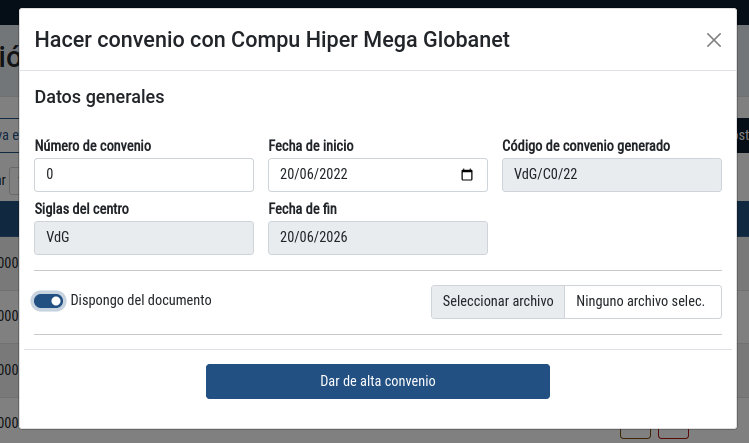
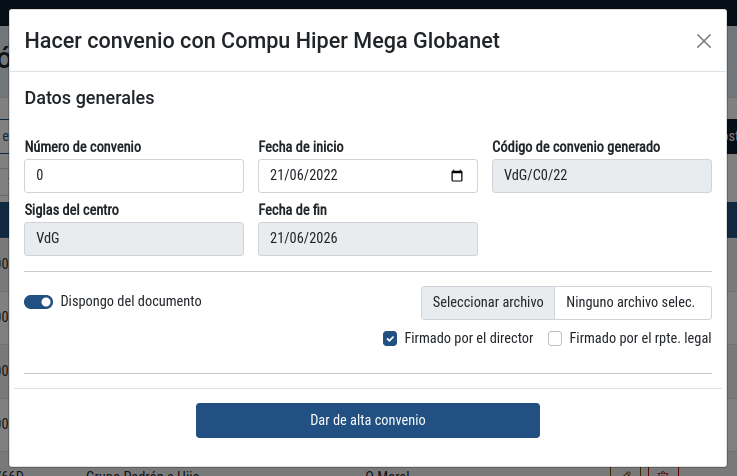
Manual convenio (firma) actualizado

diff --git a/src/app/modules/manuales/manual-gestion-empresas/manual-gestion-empresas.component.html b/src/app/modules/manuales/manual-gestion-empresas/manual-gestion-empresas.component.html
@@ -116,7 +116,8 @@
       <img src="/assets/Manuales/gestion-empresas/convenio_02.png"
         alt="Captura de pantalla: modal para hacer convenio en modo subir fichero"
         class="img-fluid me-3 border border-dark mb-2">
-      <p>Si dispone del documento, marque la casilla "Dispongo del documento" y suba el archivo en formato PDF</p>
+      <p>Si dispone del documento, marque la casilla "Dispongo del documento" y suba el archivo en formato PDF. Debe
+        indicar si dicho documento está firmado por cada una de las partes implicadas</p>
       <p class="mt-1">Independientemente de la opción que elija, podrá guardar los cambios usando el botón en la parte
         inferior del modal.</p>
       <p class="mt-1">Si ha generado el documento, podrá descargarlo tras finalizar el proceso.</p>
@@ -140,7 +141,8 @@
           alt="Captura de pantalla con el botón para editar el convenio o acuerdo" class="img-fluid me-3">
         <div>
           <p>Clickee sobre el botón de edición de documento (folio con lápiz) para editar el convenio entre su
-            centro de estudios y la empresa correspondiente, con opción de re-subir el documento.</p>
+            centro de estudios y la empresa correspondiente. Aquí podrá también subir el documento firmado por su centro
+            y/o la empresa implicada.</p>
           <p class="m-0">La ventana modal tiene el mismo funcionamiento que la de hacer convenio.</p>
         </div>
       </div>
